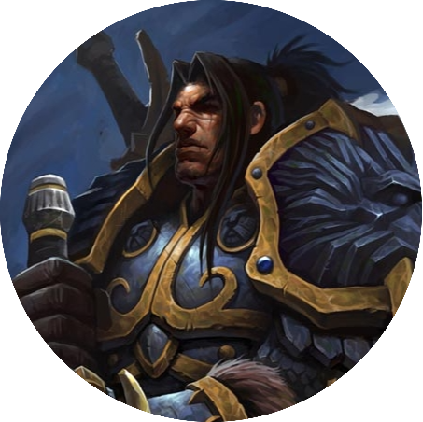
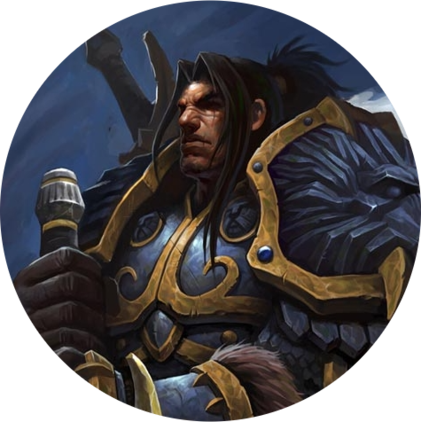
Images update

diff --git a/index.html b/index.html
@@ -17,7 +17,6 @@
     <link rel="stylesheet" href="./styles.css">
     <script src="./script.js" defer></script>
     <script src="./script-crud.js" defer></script>
-
 </head>
 
 <body>
@@ -40,16 +39,13 @@
             <div class="app__card">
                 <ul class="app__card-list">
                     <li class="app__card-list-item">
-                        <button data-contexto="foco"
-                            class="app__card-button app__card-button--foco active">Foco</button>
+                        <button data-contexto="foco" class="app__card-button app__card-button--foco active">Foco</button>
                     </li>
                     <li class="app__card-list-item">
-                        <button data-contexto="short" class="app__card-button app__card-button--curto">Descanso
-                            curto</button>
+                        <button data-contexto="short" class="app__card-button app__card-button--curto">Descanso curto</button>
                     </li>
                     <li class="app__card-list-item">
-                        <button data-contexto="long" class="app__card-button app__card-button--longo">Descanso
-                            longo</button>
+                        <button data-contexto="long" class="app__card-button app__card-button--longo">Descanso longo</button>
                     </li>
                 </ul>
                 <div id="timer" class="app__card-timer"></div>
@@ -75,7 +71,7 @@
             </div>
         </section>
 
-        <section class="app__section-task-container">
+                <section class="app__section-task-container">
             <div class="app__section-task-content">
                 <header class="app__section-active-task">
                     <p class="app__section-active-task-label">#Em andamento:</p>
@@ -109,8 +105,7 @@
                         <label class="app__form-label">
                             Adicionando tarefa
                         </label>
-                        <textarea required rows="4" class="app__form-textarea"
-                            placeholder="No que você está trabalhando?"></textarea>
+                        <textarea required rows="4" class="app__form-textarea" placeholder="No que você está trabalhando?"></textarea>
                     </div>
                     <footer class="app__form-footer">
                         <button type="button" class="app__form-footer__button app__form-footer__button--delete">
@@ -133,7 +128,7 @@
 
         <footer class="app__footer">
             <p class="app__footer-text">
-                Projeto fictício e sem fins comerciais. Imagens geradas por IA no Adobe Firefly.Desenvolvido por Alura.
+                Projeto fictício e sem fins comerciais. Imagens geradas por IA no Adobe Firefly.Desenvolvido por Alura. 
             </p>
         </footer>
     </main>
@@ -141,7 +136,3 @@
 </body>
 
 </html>
-
-
-
-

diff --git a/styles.css b/styles.css
@@ -50,6 +50,11 @@ h1, h2, h3, h4, h5, h6 {
     padding: 4rem 0;
 }
 
+.app__image {
+    border-radius: 50%;
+    box-shadow: 0px 4px 12px rgba(0, 0, 0, 20);
+}
+
 .app__section-banner-container {
     width: 99rem;
     margin: 0 auto;
